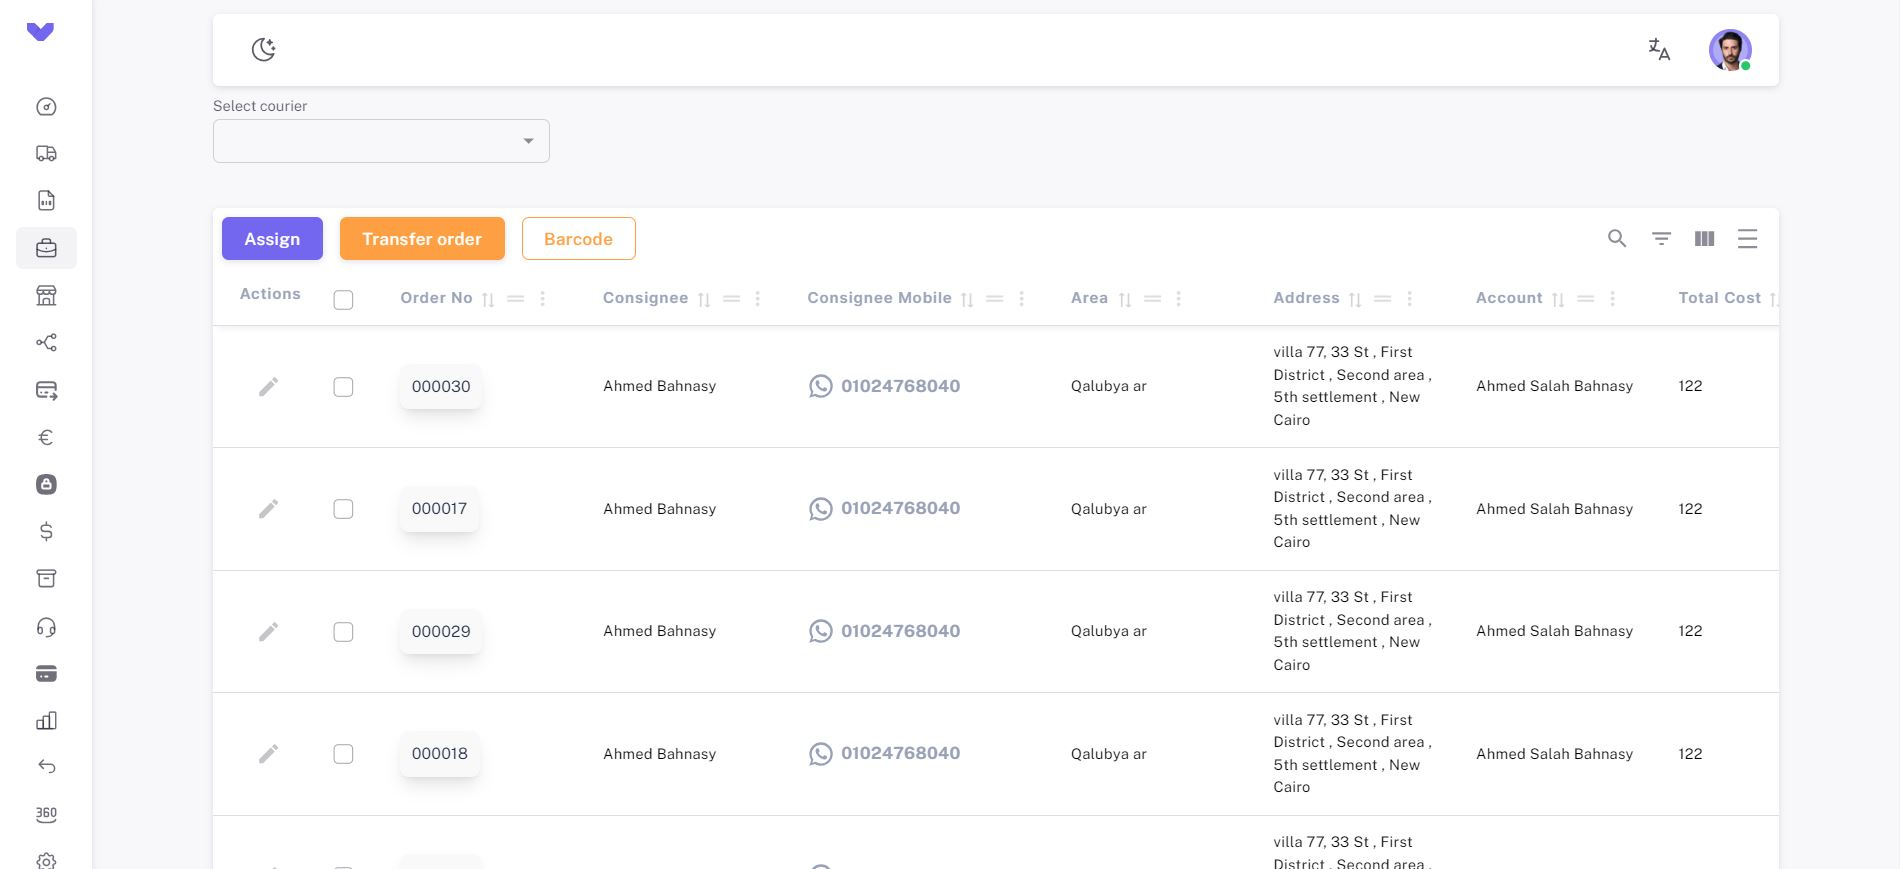
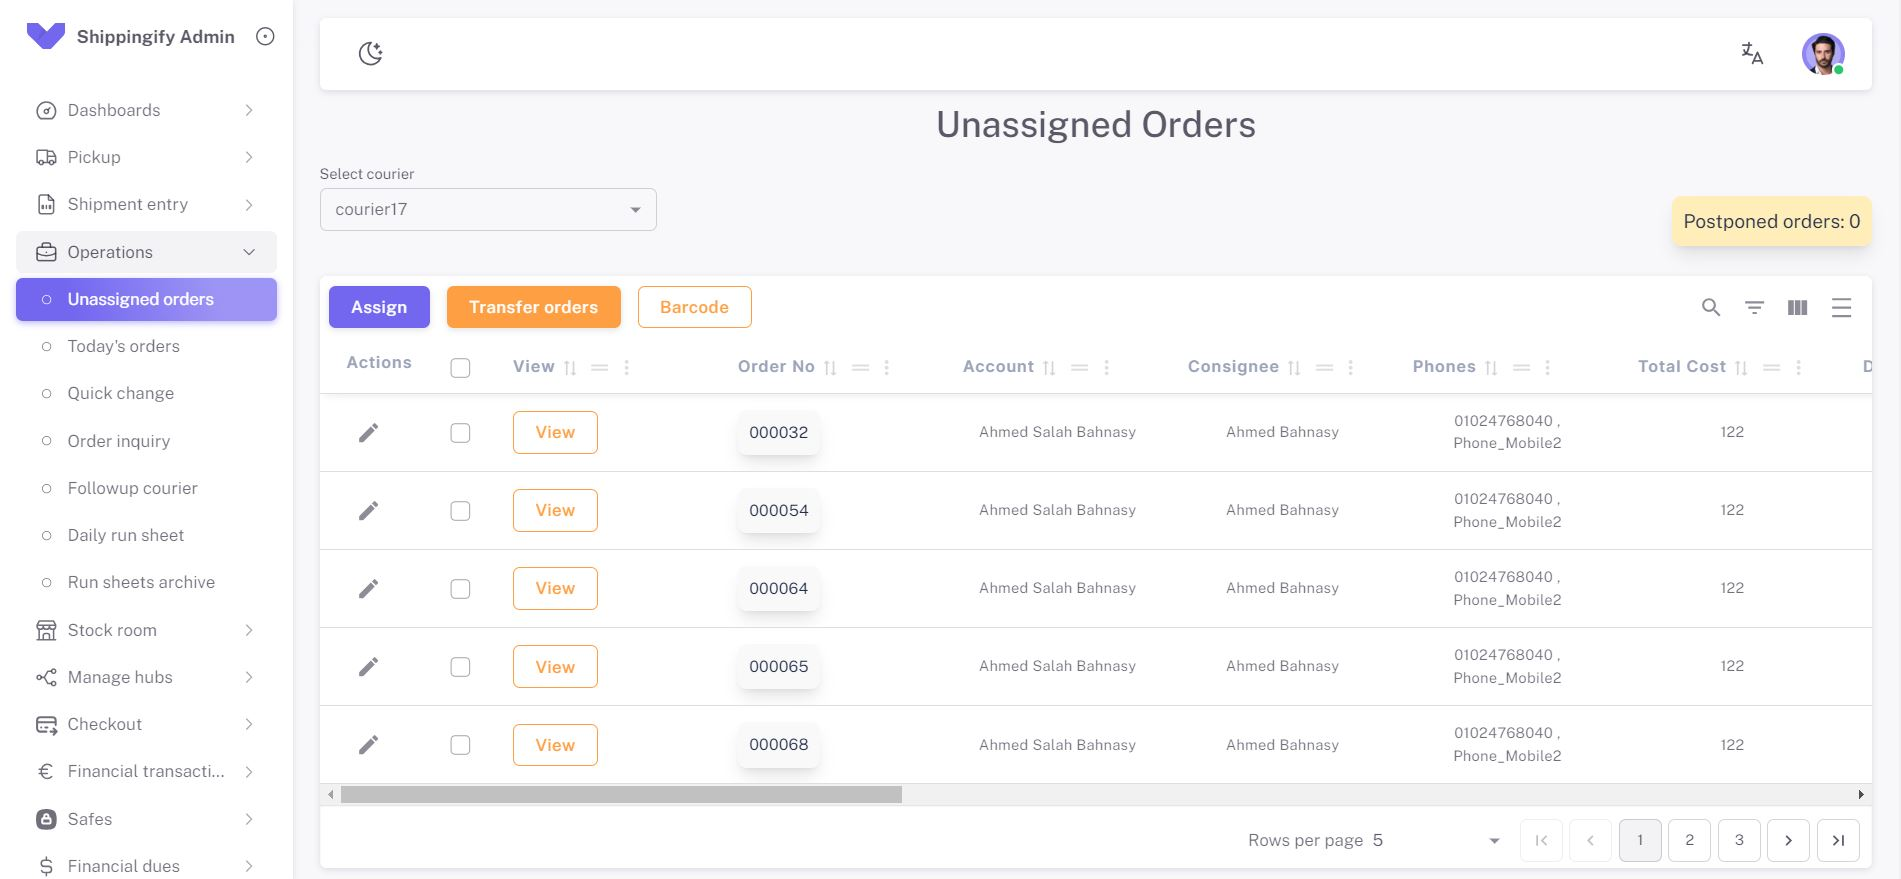
updated the picture of the shippingify admin project, and changed the order of the projects in the grid

diff --git a/src/constants/index.js b/src/constants/index.js
@@ -1,4 +1,5 @@
 import {
+  ShippingUnassigned,
   shippingify,
   apaAdmin,
   apaPatient,
@@ -236,7 +237,7 @@ const projects = [
         color: "pink-text-gradient",
       },
     ],
-    image: shippingify,
+    image: ShippingUnassigned,
     source_code_link: "",
     preview_link: "",
     showLinks: false,
@@ -338,31 +339,7 @@ const projects = [
     preview_link: "https://figma-clone-delta.vercel.app/",
     showLinks: true,
   },
-  {
-    name: "Link Sharing App",
-    description: [
-      `• This is a minimalistic Link Sharing App. Developed as part of a Front-end coding challenge during a hiring process with a potential employer.`,
-    ],
-    tags: [
-      {
-        name: "NextJS",
-        color: "blue-text-gradient",
-      },
-      {
-        name: "Tailwind CSS",
-        color: "green-text-gradient",
-      },
-      {
-        name: "Shadcn UI",
-        color: "pink-text-gradient",
-      },
-    ],
-    image: linkSharing,
-    source_code_link:
-      "https://github.com/ahmedsalah117/link_sharing_app/tree/master",
-    preview_link: "https://link-sharing-app-three-sigma.vercel.app/",
-    showLinks: true,
-  },
+
   {
     name: "Admin Dashboard",
     description: [
@@ -387,6 +364,31 @@ const projects = [
     source_code_link:
       "https://github.com/ahmedsalah117/admin-dashboard/tree/master",
     preview_link: "https://ahmedsalah117.github.io/admin-dashboard/",
+    showLinks: true,
+  },
+  {
+    name: "Link Sharing App",
+    description: [
+      `• This is a minimalistic Link Sharing App. Developed as part of a Front-end coding challenge during a hiring process with a potential employer.`,
+    ],
+    tags: [
+      {
+        name: "NextJS",
+        color: "blue-text-gradient",
+      },
+      {
+        name: "Tailwind CSS",
+        color: "green-text-gradient",
+      },
+      {
+        name: "Shadcn UI",
+        color: "pink-text-gradient",
+      },
+    ],
+    image: linkSharing,
+    source_code_link:
+      "https://github.com/ahmedsalah117/link_sharing_app/tree/master",
+    preview_link: "https://link-sharing-app-three-sigma.vercel.app/",
     showLinks: true,
   },
   {

diff --git a/src/assets/index.js b/src/assets/index.js
@@ -45,7 +45,9 @@ import apaPatient from "./apa_patient_appointments.JPG";
 import apaAdmin from "./apa_admin_patients.JPG";
 import shippingify from "./shippingify_profits.JPG";
 import linkSharing from "./link_sharing.JPG";
+import ShippingUnassigned from "./Shipping_unassigned_orders.JPG";
 export {
+  ShippingUnassigned,
   linkSharing,
   shippingify,
   apaAdmin,
